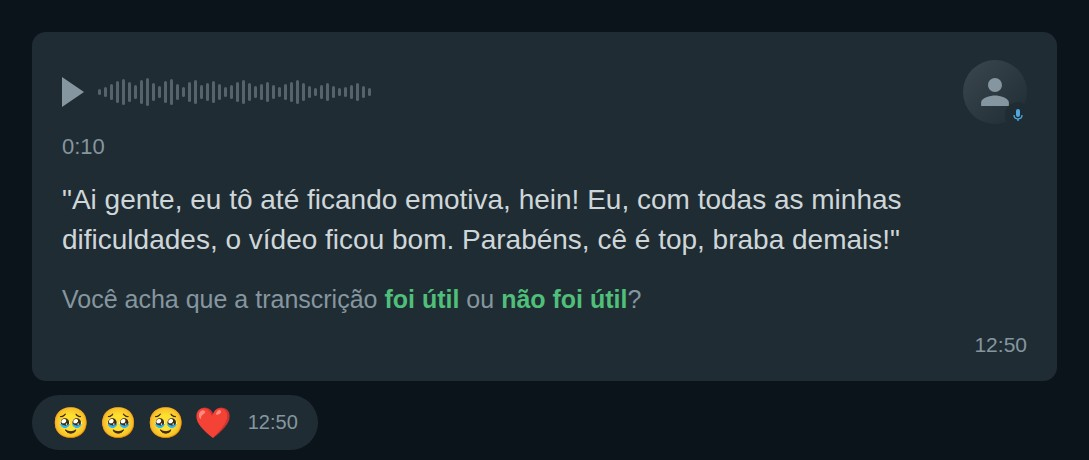
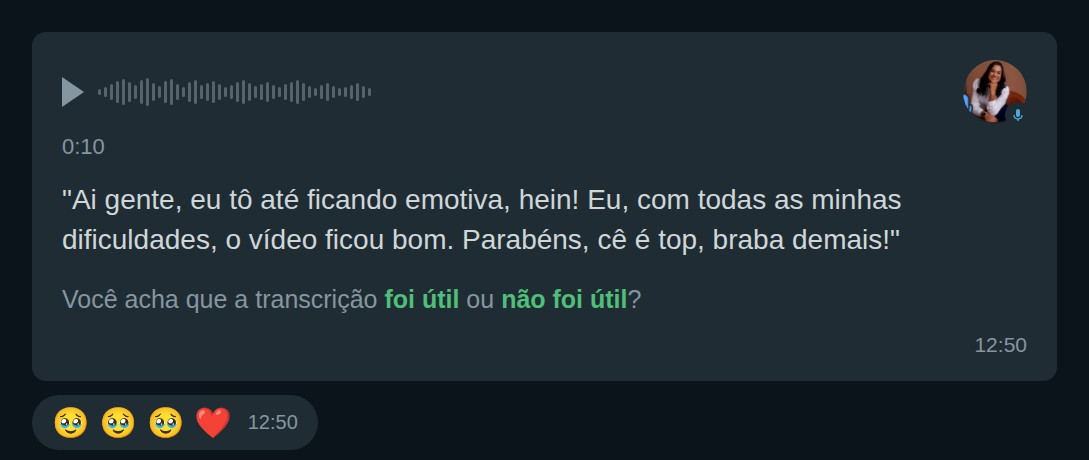
Ajustes na seção de provas: DOMTrafego, ClickGO, SocialDOMination e órbita
- DOMTrafego: substitui as 4 métricas de campanha por um único destaque
  "R$ 500 mil gerenciados em mídia desde 2023"
- ClickGO: substitui a vitrine de vídeos pela foto real de bastidores de
  uma captação em campo (loja da KZL Motos); ajusta a legenda do bloco
  de "Cada vídeo" para "Cada entrega", já que não há mais vídeos ali
- ClickGO: adiciona a foto real de perfil no depoimento do WhatsApp
  (estava com um ícone genérico, o que deixava a mensagem com cara de
  falsa); mantém o texto da transcrição corrigida sem alterações
- SocialDOMination: remove o case da Manu e o destaque "+6 clientes
  novos"
- Órbita de serviços: remove os botões de contato "Quero saber mais"
  dos painéis que abrem ao clicar em cada serviço

Remove também o CSS e os assets órfãos correspondentes.

Changed region(s): [[0.8742, 0.1217, 0.9679, 0.2739]]

diff --git a/index.html b/index.html
@@ -518,10 +518,6 @@
               <li>Criação de conteúdo</li>
               <li>Gestão de redes sociais</li>
             </ul>
-            <a class="service-panel__cta" href="https://wa.me/5521993393027?text=Ol%C3%A1%21%20Quero%20saber%20mais%20sobre%20o%20SocialDOMination." target="_blank" rel="noopener">
-              Quero saber mais
-              <svg viewBox="0 0 24 24" fill="none" stroke="currentColor" stroke-width="2" aria-hidden="true"><path d="M7 17 17 7M8 7h9v9"/></svg>
-            </a>
           </div>
         </div>
 
@@ -538,10 +534,6 @@
               <li>Edição</li>
               <li>Conteúdo audiovisual</li>
             </ul>
-            <a class="service-panel__cta" href="https://wa.me/5521993393027?text=Ol%C3%A1%21%20Quero%20saber%20mais%20sobre%20o%20ClickGO." target="_blank" rel="noopener">
-              Quero saber mais
-              <svg viewBox="0 0 24 24" fill="none" stroke="currentColor" stroke-width="2" aria-hidden="true"><path d="M7 17 17 7M8 7h9v9"/></svg>
-            </a>
           </div>
         </div>
 
@@ -558,10 +550,6 @@
               <li>Distribuição</li>
               <li>Otimização</li>
             </ul>
-            <a class="service-panel__cta" href="https://wa.me/5521993393027?text=Ol%C3%A1%21%20Quero%20saber%20mais%20sobre%20o%20DOMTrafego." target="_blank" rel="noopener">
-              Quero saber mais
-              <svg viewBox="0 0 24 24" fill="none" stroke="currentColor" stroke-width="2" aria-hidden="true"><path d="M7 17 17 7M8 7h9v9"/></svg>
-            </a>
           </div>
         </div>
       </div>
@@ -633,21 +621,7 @@
               </div>
             </div>
 
-            <!-- Case 4: MANU — perfil + feed reorganizados, com destaque de resultado -->
-            <div class="proof-case proof-case--layered proof-case--manu">
-              <div class="proof-layer proof-layer--main reveal" style="--stagger:0">
-                <div class="proof-layer__inner" style="--tilt:-1.5deg" data-parallax="8">
-                  <img class="proof-layer__img proof-layer__img--tall" src="assets/proof/social-manu-feed.jpg" alt="Perfil e grade de conteúdo organizados para uma nutricionista esportiva">
-                </div>
-              </div>
-              <div class="proof-layer proof-layer--accent reveal" style="--stagger:2">
-                <div class="proof-layer__inner proof-layer__inner--float" style="--tilt:3deg">
-                  <p class="proof-case__badge"><strong>+6</strong> clientes novos</p>
-                </div>
-              </div>
-            </div>
-
-            <!-- Case 5: depoimento da Thaís Dourado — card flutuante, sobrepondo levemente o case anterior -->
+            <!-- Case 4: depoimento da Thaís Dourado — card flutuante -->
             <div class="proof-case proof-case--layered proof-case--thais">
               <div class="proof-layer proof-layer--main reveal" style="--stagger:0">
                 <div class="proof-layer__inner" style="--tilt:-1.5deg" data-parallax="6">
@@ -667,23 +641,13 @@
         <article class="proof-card proof-card--click reveal" style="--stagger:1">
           <div class="proof-card__head">
             <h3>ClickGO</h3>
-            <span class="proof-card__tagline">Cada vídeo, uma prova de execução.</span>
+            <span class="proof-card__tagline">Cada entrega, uma prova de execução.</span>
           </div>
 
-          <div class="proof-reel-strip">
-            <video class="proof-reel" playsinline muted loop autoplay preload="metadata" poster="assets/videos/reel-4-poster.jpg">
-              <source src="assets/videos/reel-4.mp4" type="video/mp4">
-            </video>
-            <video class="proof-reel" playsinline muted loop autoplay preload="metadata" poster="assets/videos/reel-3-poster.jpg">
-              <source src="assets/videos/reel-3.mp4" type="video/mp4">
-            </video>
-            <video class="proof-reel" playsinline muted loop autoplay preload="metadata" poster="assets/videos/reel-2-poster.jpg">
-              <source src="assets/videos/reel-2.mp4" type="video/mp4">
-            </video>
-            <video class="proof-reel" playsinline muted loop autoplay preload="metadata" poster="assets/videos/reel-7-poster.jpg">
-              <source src="assets/videos/reel-7.mp4" type="video/mp4">
-            </video>
-          </div>
+          <figure class="proof-testimonial">
+            <img src="assets/proof/clickgo-bastidores.jpg" alt="Bastidores de uma captação real da DOMT em campo, na loja da KZL Motos">
+            <figcaption>Bastidores de uma captação real da DOMT em campo</figcaption>
+          </figure>
 
           <figure class="proof-testimonial">
             <img src="assets/proof/clickgo-whatsapp-testimonial.jpg" alt="Áudio de cliente reagindo ao vídeo produzido pela DOMT: &quot;o vídeo ficou bom, parabéns, você é top, braba demais&quot;">
@@ -703,22 +667,11 @@
             <span class="proof-card__tagline">Tráfego que vira conversa — e conversa que vira cliente.</span>
           </div>
 
-          <div class="proof-metrics">
-            <div class="proof-metric">
-              <strong class="proof-counter" data-count-to="2808.62" data-decimals="2" data-prefix="R$ ">0</strong>
-              <span>investidos</span>
-            </div>
-            <div class="proof-metric">
-              <strong class="proof-counter" data-count-to="1842">0</strong>
-              <span>conversas iniciadas</span>
-            </div>
-            <div class="proof-metric">
-              <strong class="proof-counter" data-count-to="2580">0</strong>
-              <span>cliques no link</span>
-            </div>
-            <div class="proof-metric">
-              <strong class="proof-counter" data-count-to="1.52" data-decimals="2" data-prefix="R$ ">0</strong>
-              <span>por conversa</span>
+          <div class="proof-case__result proof-case__result--trafego">
+            <strong class="proof-counter" data-count-to="500" data-prefix="R$ " data-suffix=" mil">0</strong>
+            <div class="proof-case__result-text">
+              <span>gerenciados em mídia</span>
+              <small>Desde 2023.</small>
             </div>
           </div>
 

diff --git a/css/style.css b/css/style.css
@@ -1708,21 +1708,6 @@ h1, h2, h3, h4 {
 }
 .proof-case__caption strong { color: var(--orange-soft); }
 
-.proof-case__badge {
-  display: inline-flex;
-  align-items: baseline;
-  gap: 6px;
-  padding: 10px 16px;
-  border-radius: 100px;
-  background: var(--ink);
-  border: 1px solid var(--line-on-ink);
-  box-shadow: 0 16px 32px -14px rgba(0, 0, 0, 0.7);
-  font-size: 0.85rem;
-  color: var(--text-on-ink);
-  white-space: nowrap;
-}
-.proof-case__badge strong { font-family: var(--font-display); font-size: 1.05rem; color: var(--orange); }
-
 /* Case 1 — Cassulinha: card compacto no canto superior direito, sobre a área decorativa da foto */
 .proof-case--cassulinha { padding-top: 20px; padding-right: 16%; }
 .proof-case--cassulinha .proof-layer--accent {
@@ -1737,15 +1722,7 @@ h1, h2, h3, h4 {
 .proof-case--reel .proof-case__result { padding: 16px 20px; }
 .proof-case--reel .proof-case__result .proof-counter { font-size: clamp(1.7rem, 6vw, 2.1rem); }
 
-/* Case 4 — MANU: badge de resultado sobrepondo o canto superior direito do print */
-.proof-case--manu { padding-bottom: 26px; padding-left: 4%; }
-.proof-case--manu .proof-layer--accent {
-  position: absolute;
-  bottom: -26px; left: -4%;
-  z-index: 3;
-}
-
-/* Case 5 — Thaís: card flutuante, com leve rotação e sombra de profundidade */
+/* Case 4 — Thaís: card flutuante, com leve rotação e sombra de profundidade */
 .proof-case--thais {
   width: 92%;
   margin: 4px auto 0;
@@ -1763,20 +1740,9 @@ h1, h2, h3, h4 {
   box-shadow: 0 16px 34px -20px rgba(0, 0, 0, 0.6);
 }
 
-/* ---- ClickGO: mini vitrine de vídeos + depoimento ---- */
-.proof-reel-strip {
-  display: grid;
-  grid-template-columns: 1fr 1fr;
-  gap: 10px;
+/* ---- ClickGO: bastidores + depoimento ---- */
+.proof-testimonial {
   margin-bottom: 20px;
-}
-.proof-reel {
-  width: 100%;
-  aspect-ratio: 3 / 4;
-  object-fit: cover;
-  border-radius: var(--radius-md);
-  border: 1px solid var(--line-on-ink);
-  background: var(--ink-3);
 }
 .proof-testimonial img {
   width: 100%;
@@ -1790,31 +1756,8 @@ h1, h2, h3, h4 {
   text-align: center;
 }
 
-/* ---- DOMTrafego: métricas animadas + prints ---- */
-.proof-metrics {
-  display: grid;
-  grid-template-columns: 1fr 1fr;
-  gap: 10px;
-  margin-bottom: 20px;
-}
-.proof-metric {
-  padding: 14px 12px;
-  border-radius: var(--radius-md);
-  background: var(--ink-3);
-  border: 1px solid var(--line-on-ink);
-  text-align: center;
-}
-.proof-metric .proof-counter {
-  display: block;
-  font-size: clamp(1.15rem, 4vw, 1.4rem);
-  color: var(--orange-soft);
-}
-.proof-metric span {
-  display: block;
-  margin-top: 4px;
-  font-size: 0.72rem;
-  color: var(--text-on-ink-dim);
-}
+/* ---- DOMTrafego: resultado em destaque + prints ---- */
+.proof-case__result--trafego { margin-bottom: 20px; }
 .proof-shot {
   width: 100%;
   border-radius: var(--radius-md);
